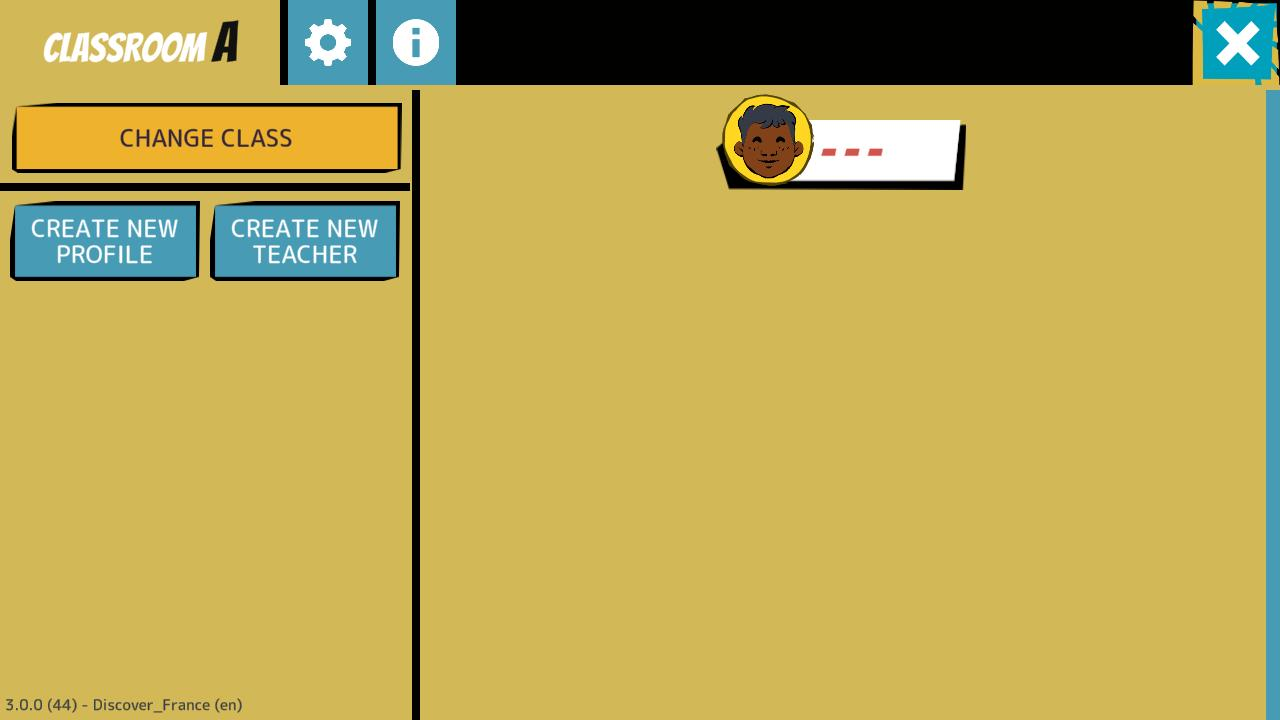
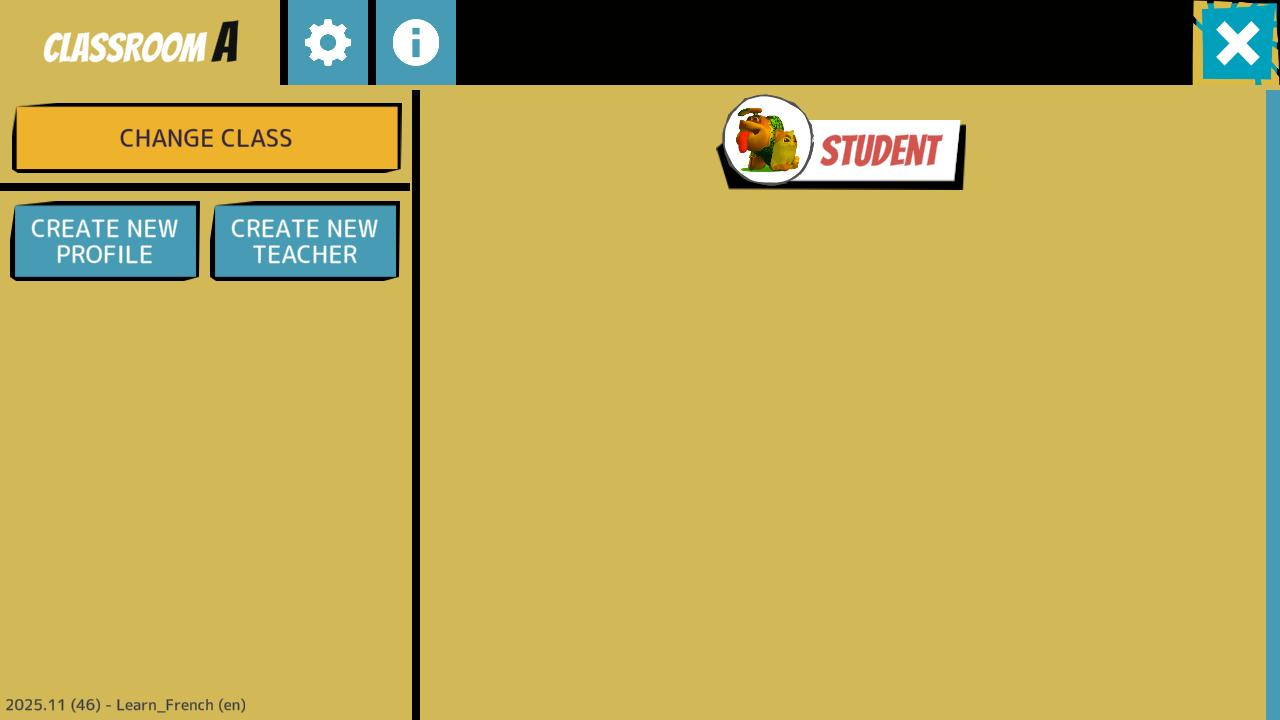
Updated Setup page in the Manual

Changed region(s): [[0.5625, 0.1222, 0.75, 0.275], [0.0, 0.9472, 0.2188, 1.0]]

diff --git a/docs/en/manual/setup.md b/docs/en/manual/setup.md
@@ -50,14 +50,15 @@ Once selected the first class, you’ll notice that the class is empty,
 
 ![EmptyClass](../../assets/img/screenshot/setup/EmptyClass.jpg)
 
-Press “Create New Profile” to add a student to this class, then follow the instructions on screen.
-This is the student profile, so it would be great if he/she could help you create it. 
+Press “Create New Profile” to add a student to this class.
+> [!note]
+> Please ignore "Create New Teacher" button. It's going to be removed.
 
 ![ClassProfileCreation](../../assets/img/screenshot/setup/ClassProfileCreation.jpg)
 
 ## Editing Students Profiles Names
 
-Once the profile is complete, it will appear in the class, but without a name. 
+Once the profile is complete, it will appear in the class, but a standard name "STUDENT". 
 
 ![ClassWithProfile](../../assets/img/screenshot/setup/ClassWithProfile.jpg)
 
@@ -77,11 +78,10 @@ You can also enable “EASY MODE” (to reduce the difficulty of the game for th
 
 The available options are:  
 
-- **Don’t Talk**: no voiceover is played and the student has to read everything in the learning language (i.e. French or Polish)
-- **Learning Language Only**: the game uses only the learning language (i.e. French or Polish)
-- **Native then Learning**: the game uses first the native language and then repeats in the learning language
-- **Learning then Native**: the game uses first the learning language and then repeats in the native language
 - **Native Only**: the game uses only the native language
+- **Learning Language Only**: the game uses only the learning language (i.e. French or Polish)
+- **Learning then Native**: the game uses first the learning language and then repeats in the native language
+- **Native then Learning**: the game uses first the native language and then repeats in the learning language
 
 > [!IMPORTANT NOTE]
 > All profiles are only saved locally in the device in which they have been created, so each student must always use the same device in order to use his/her own profile. Most likely, on each device you will need to create one single profile __per class__ because the device will always be used by the same student when you are in that class!
